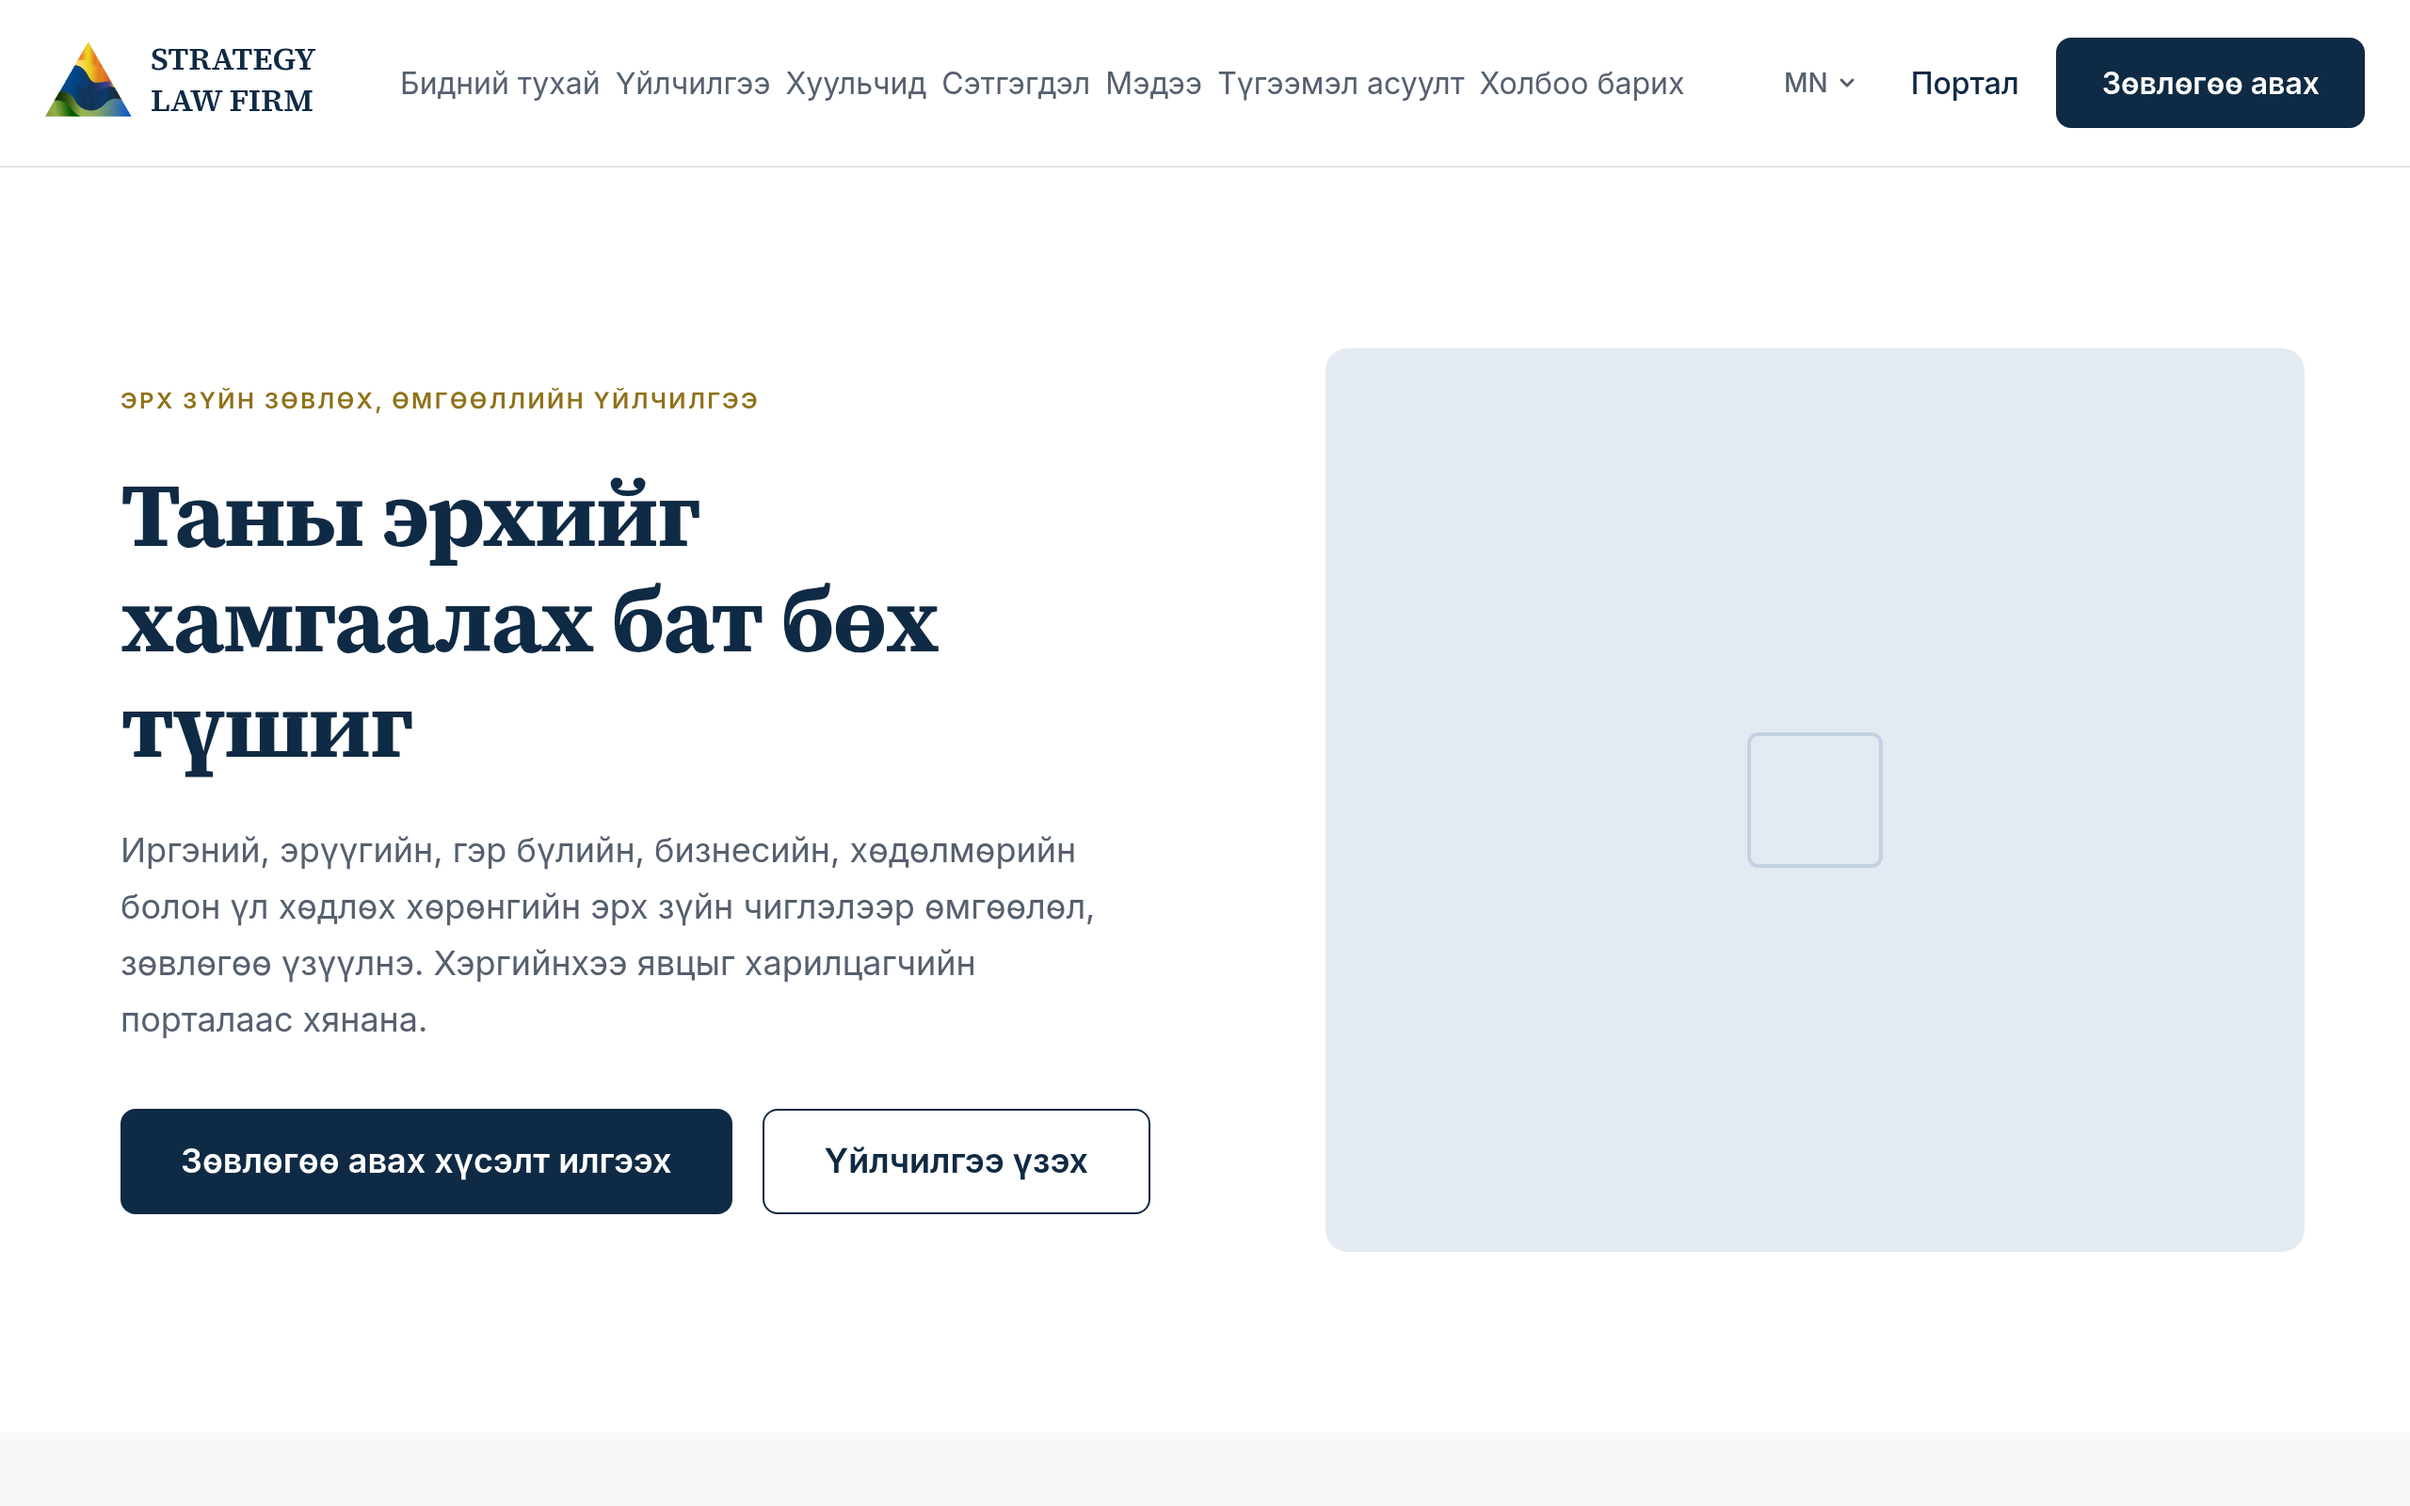
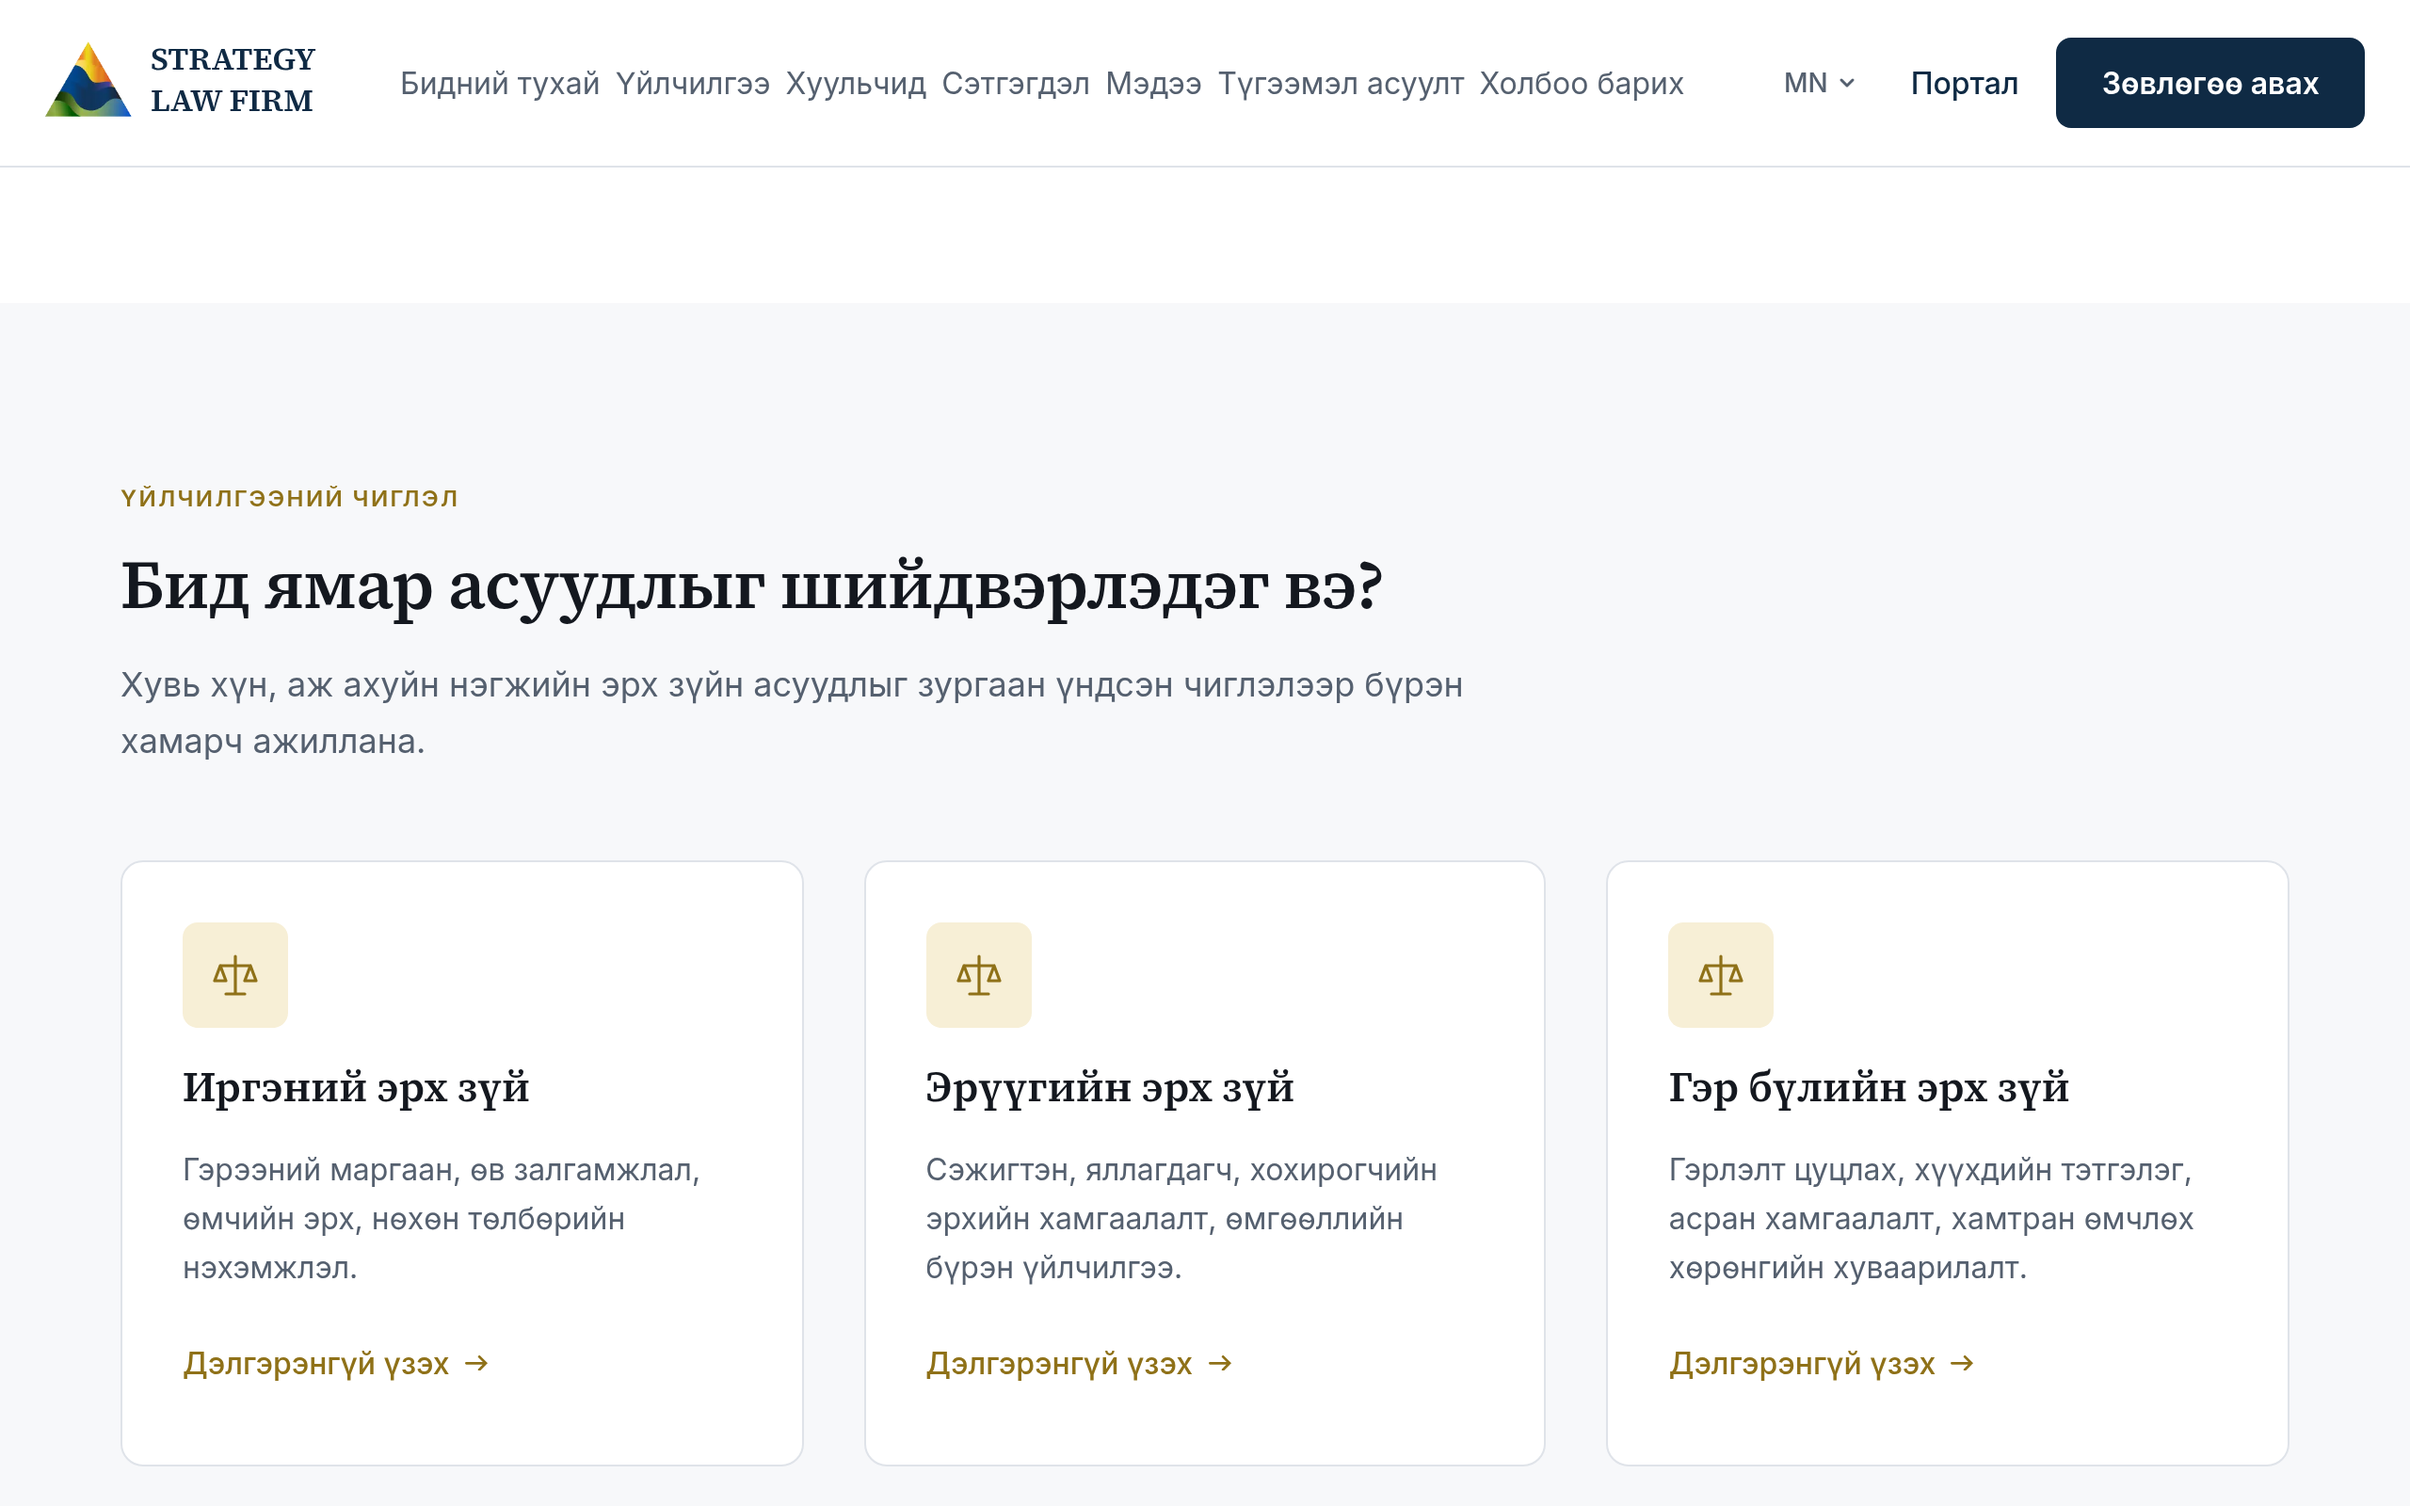
fix(work): law firm card without link, content screenshot, tags below image

diff --git a/components/web/WorkGrid.tsx b/components/web/WorkGrid.tsx
@@ -24,10 +24,10 @@ export function WorkGrid() {
                   sizes="(min-width: 1024px) 33vw, (min-width: 640px) 50vw, 100vw"
                   className="object-cover object-top transition-transform duration-500 group-hover:scale-[1.03]"
                 />
-                <span className="absolute left-3 top-3 rounded-full bg-bg/85 px-2.5 py-1 text-[11px] font-semibold text-ink backdrop-blur">{w.tag}</span>
               </div>
               <div className="flex flex-1 flex-col p-5">
-                <h3 className="text-lg font-bold">{w.name}</h3>
+                <span className="self-start rounded-full border border-line px-2.5 py-1 text-[11px] font-semibold text-muted">{w.tag}</span>
+                <h3 className="mt-3 text-lg font-bold">{w.name}</h3>
                 <p className="mt-1.5 flex-1 text-[15px] leading-relaxed text-muted">{w.summary}</p>
                 {w.url && (
                   <a

diff --git a/data/work.ts b/data/work.ts
@@ -30,7 +30,8 @@ export const work: WorkItem[] = [
     tag: "Харилцагчийн төсөл",
     summary: "Хуулийн фирмийн нүүр сайт + харилцагчийн портал + админ.",
     image: "/work/law-firm.png",
-    url: "https://web-production-1bbc4.up.railway.app",
+    // Түр нуусан — домэйн (umguulugch.com) бэлэн болмогц холбоно
+    url: null,
   },
   {
     slug: "electronics",
